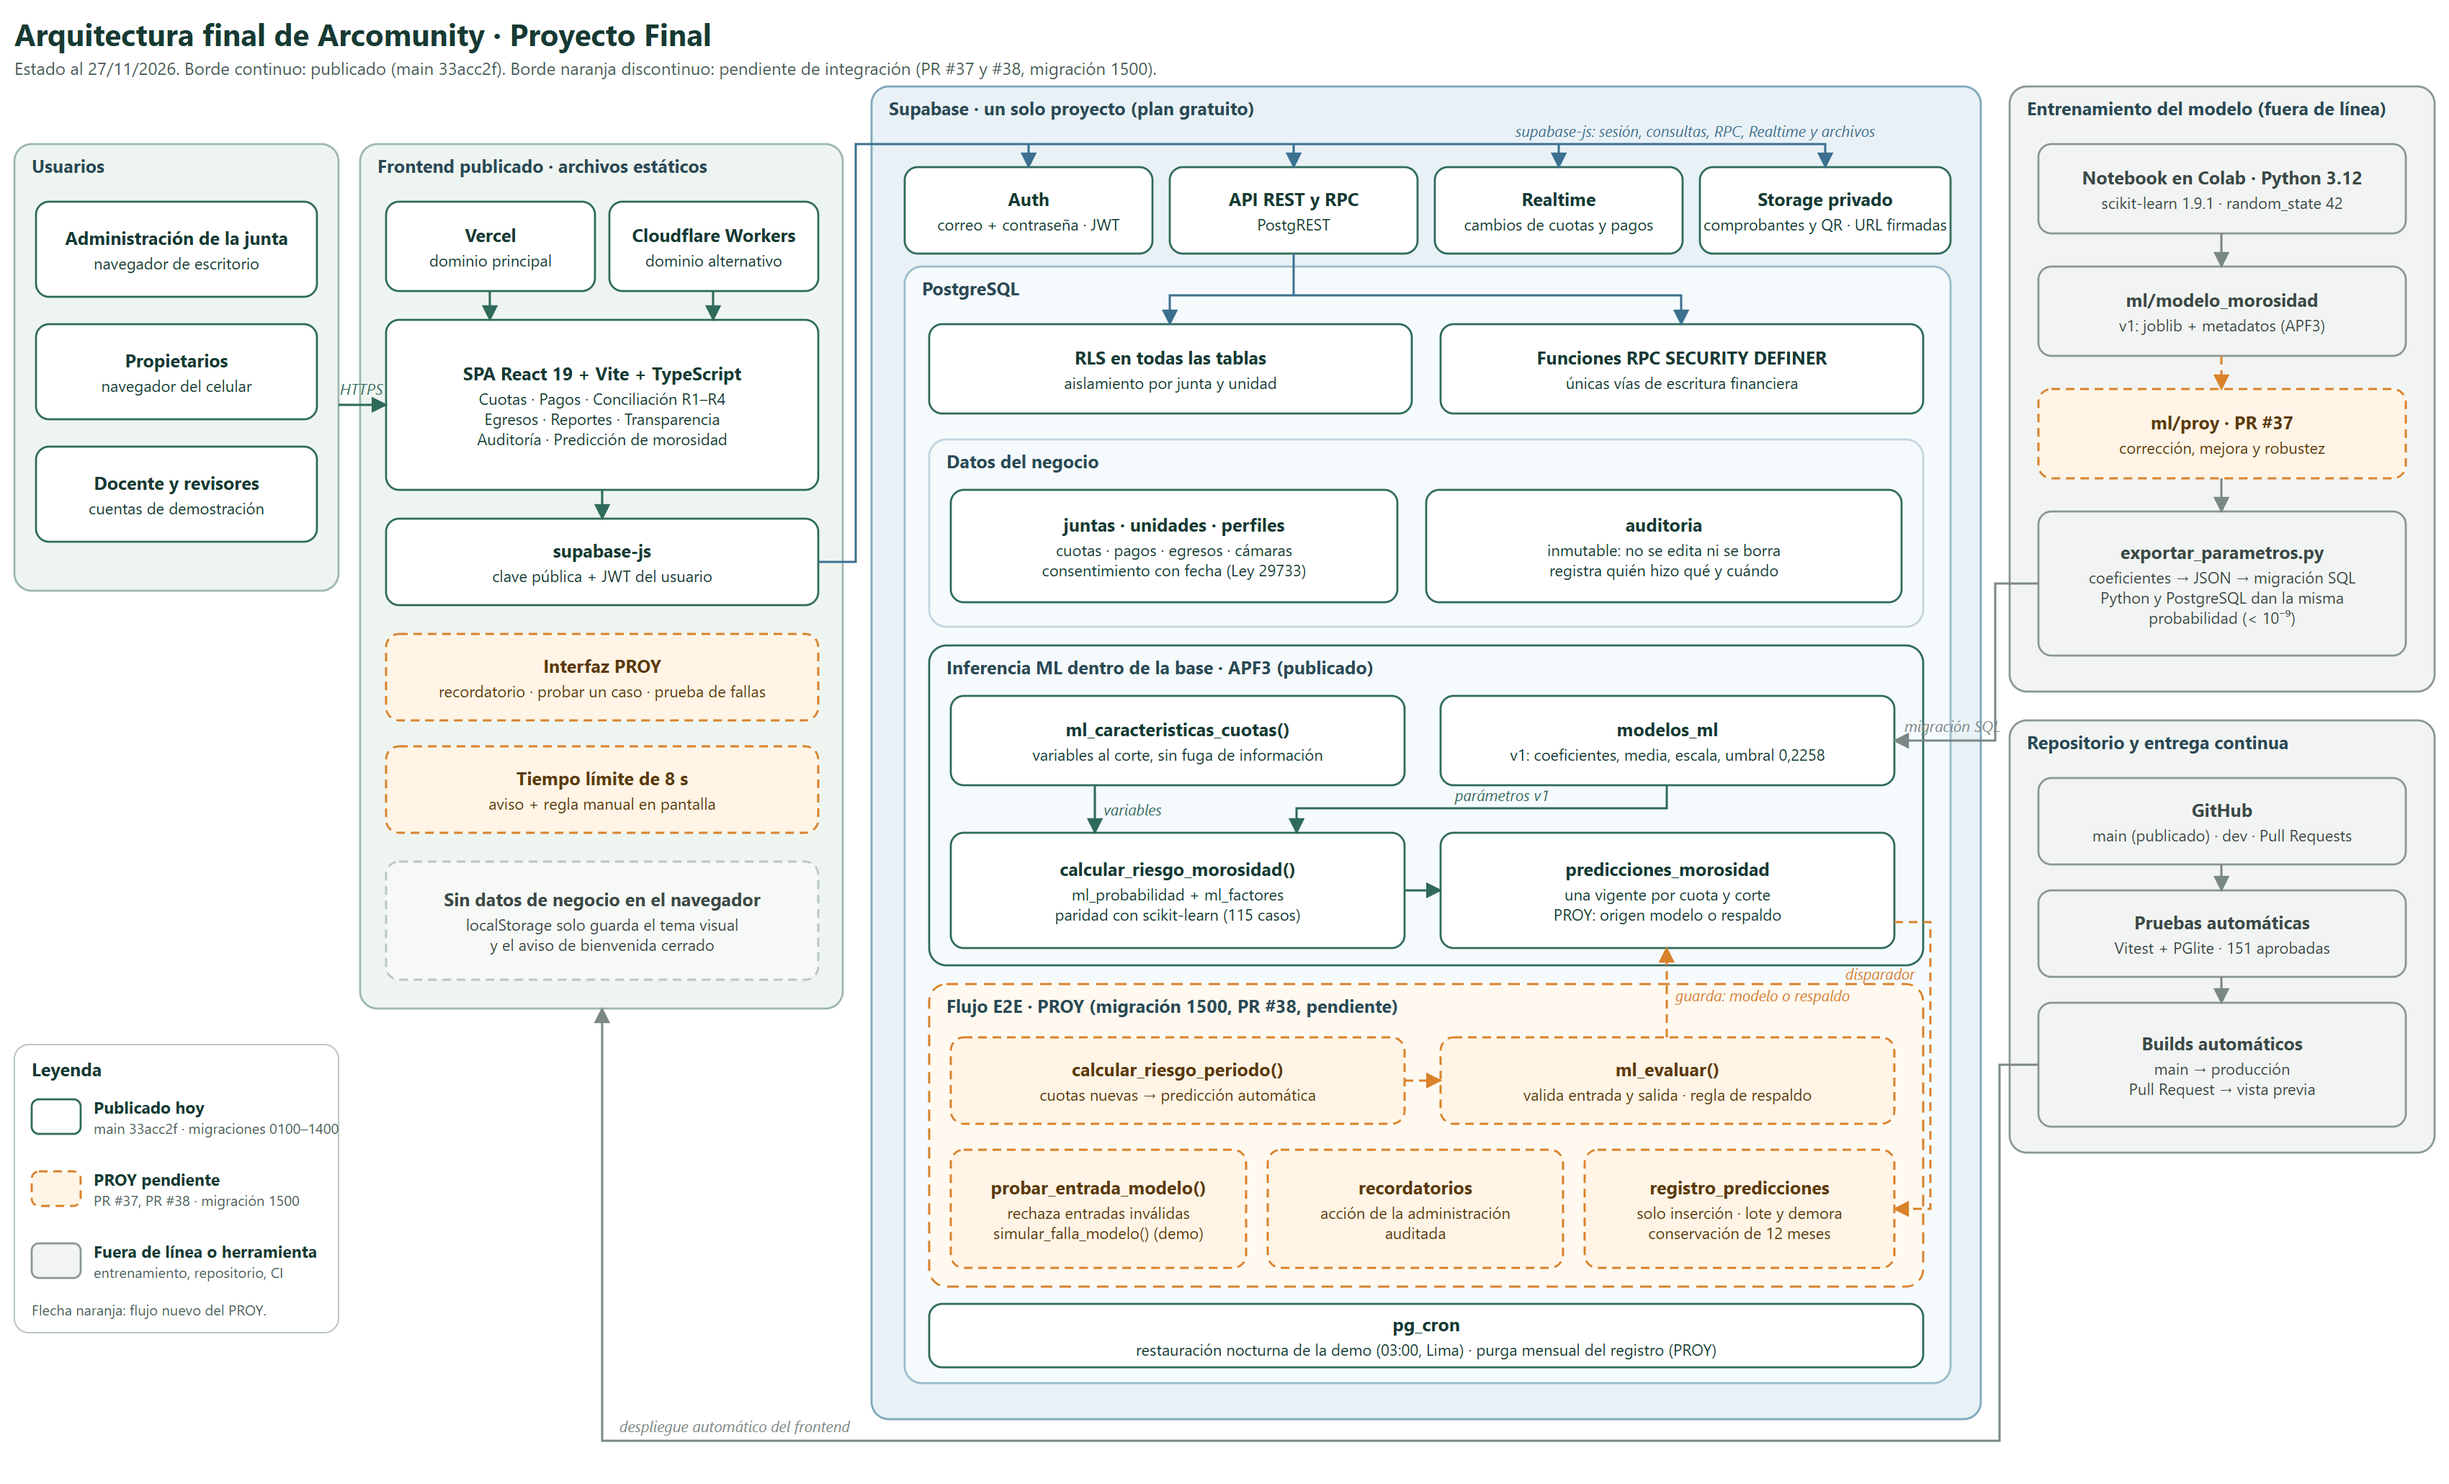
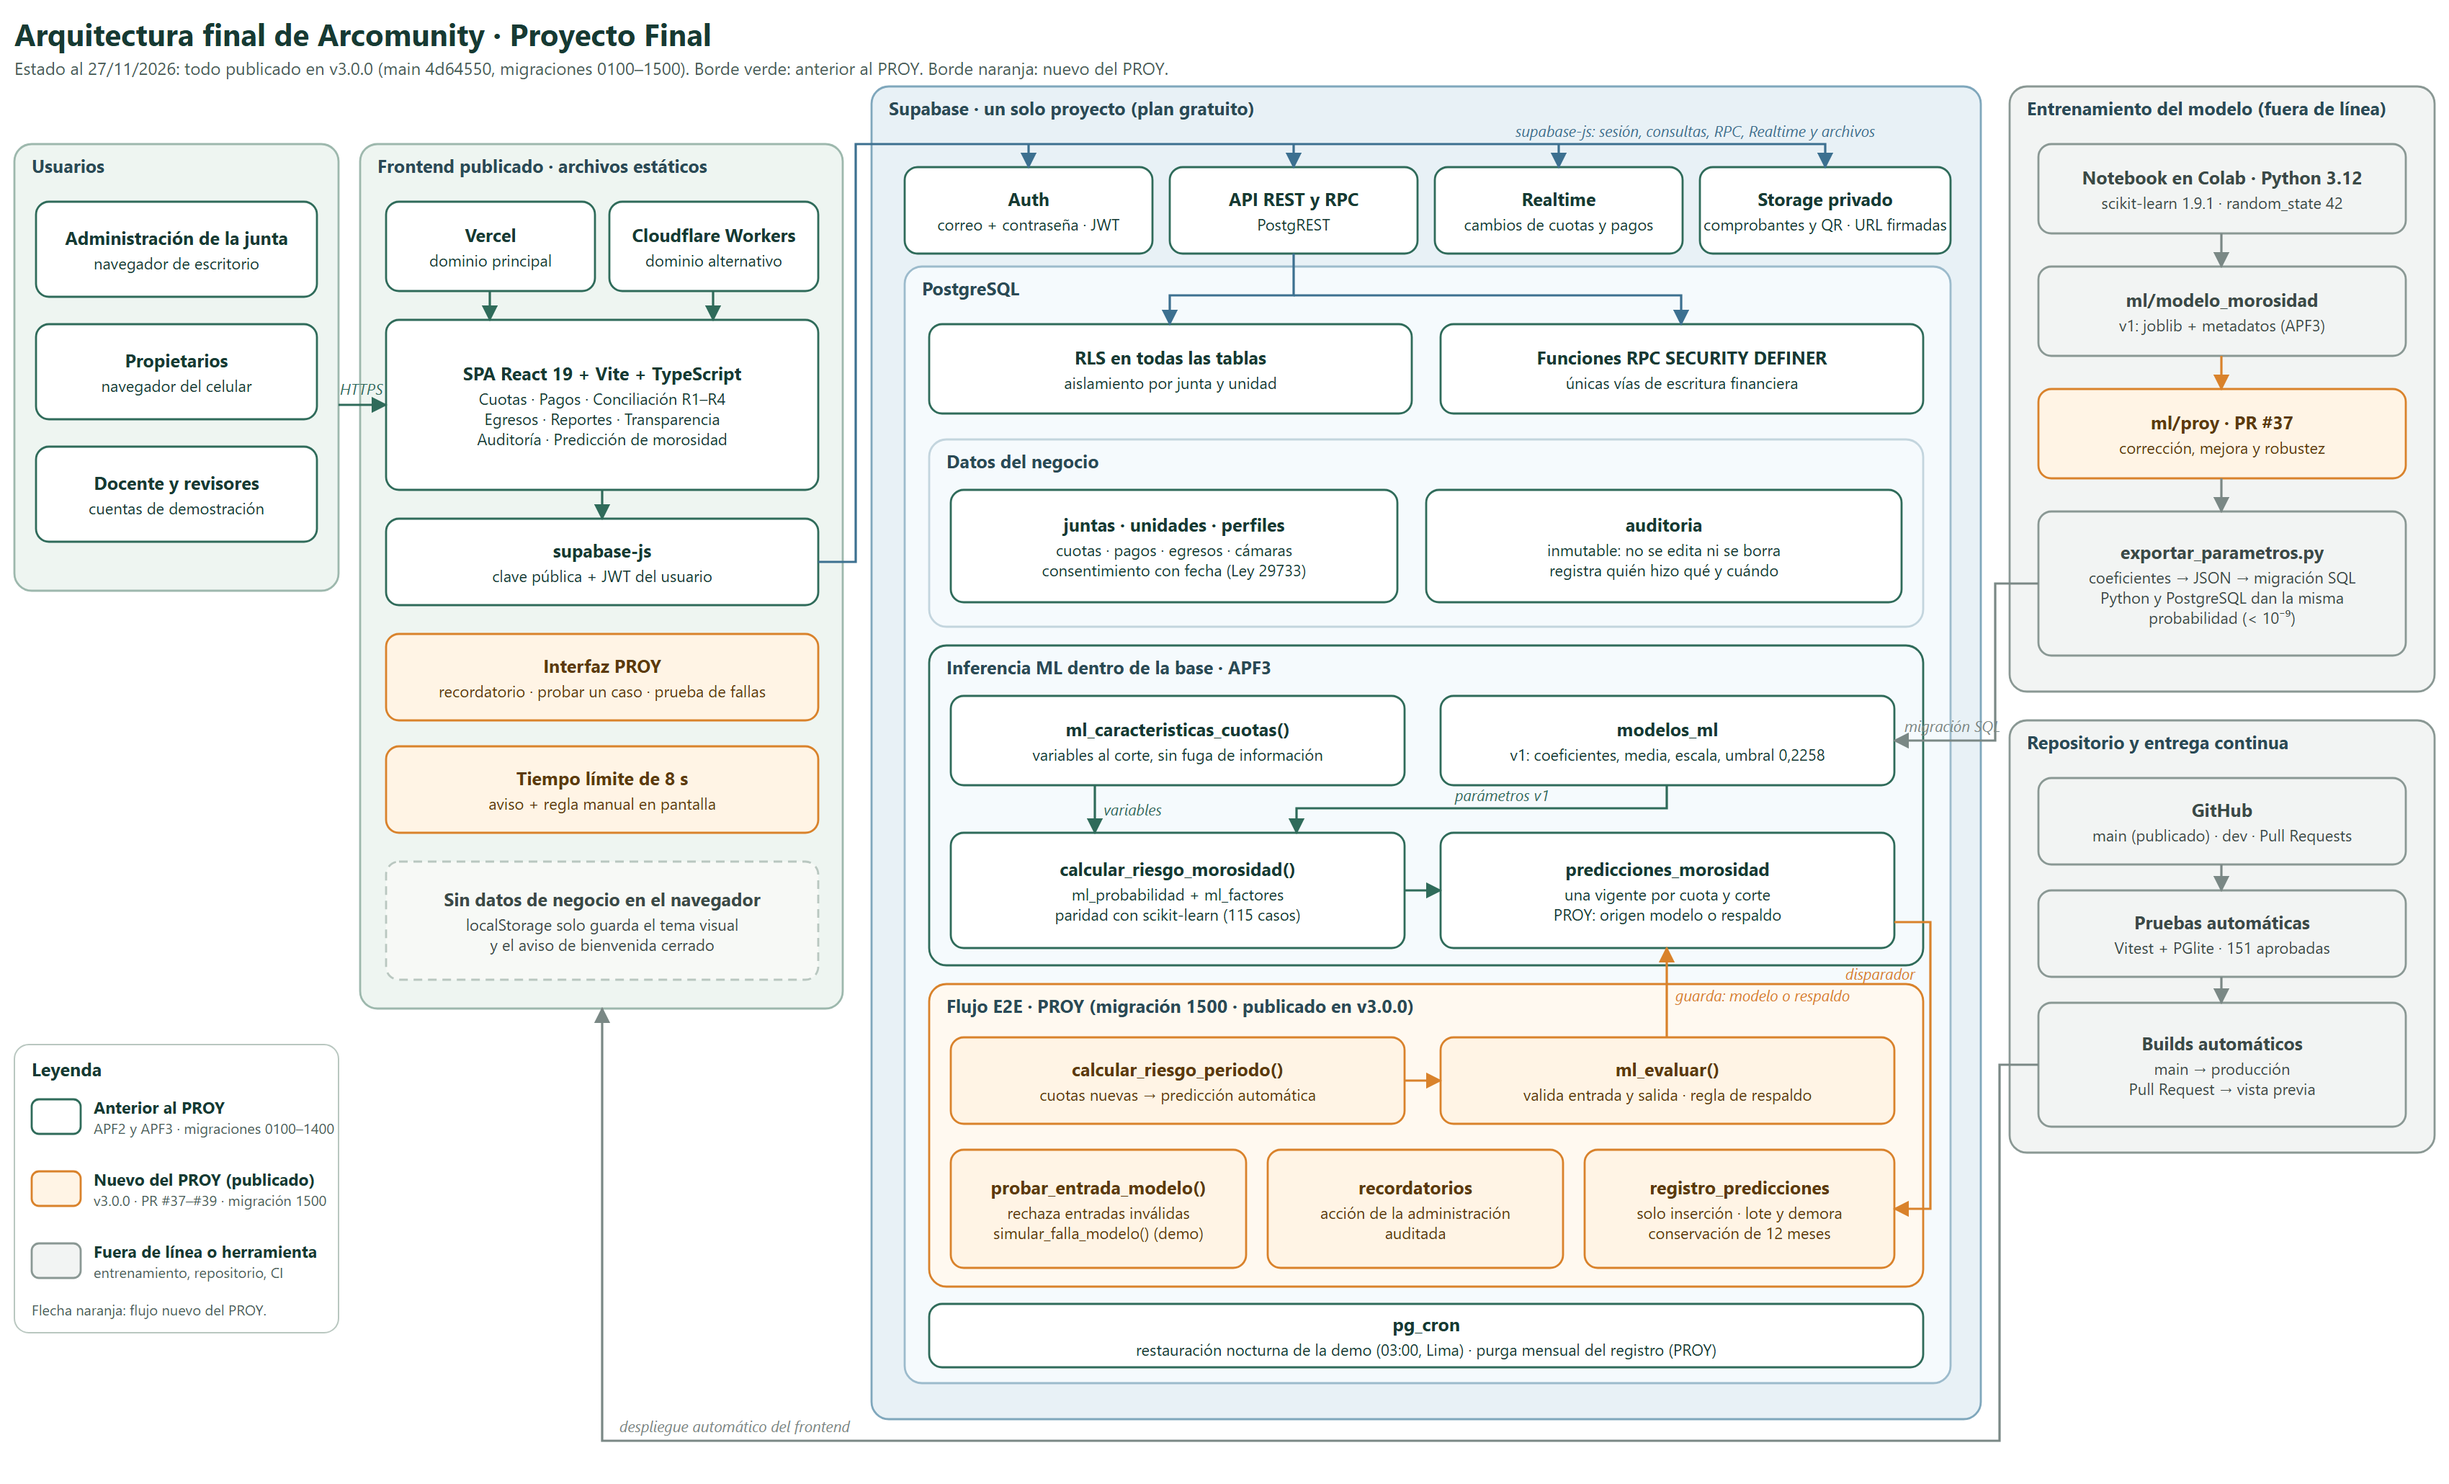
docs: marcar como publicada la arquitectura final del PROY (v3.0.0)

diff --git a/docs/arquitectura-final/generar_diagrama.py b/docs/arquitectura-final/generar_diagrama.py
@@ -5,8 +5,8 @@ Salida: arquitectura_final_proy.svg y arquitectura_final_proy.drawio en esta car
 del SVG (ver README de la carpeta). Una sola especificación alimenta los dos formatos, así no se desalinean.
 
 Convención visual:
-  - borde continuo = publicado hoy (main 33acc2f, migraciones 0100–1400);
-  - borde discontinuo naranja = PROY pendiente de integración (PR #37 y #38, migración 1500);
+  - borde verde = publicado antes del PROY (APF2 y APF3, migraciones 0100–1400);
+  - borde naranja = nuevo del PROY, publicado en v3.0.0 (main 4d64550; PR #37, #38 y #39; migración 1500);
   - gris = fuera de línea o herramientas de desarrollo.
 """
 from __future__ import annotations
@@ -18,7 +18,7 @@ AQUI = Path(__file__).resolve().parent
 ANCHO, ALTO = 1700, 1030
 
 PUB = {"fill": "#FFFFFF", "stroke": "#2F6B5A", "dash": False, "texto": "#173A33"}
-PROY = {"fill": "#FFF4E5", "stroke": "#D9822B", "dash": True, "texto": "#5C3A0E"}
+PROY = {"fill": "#FFF4E5", "stroke": "#D9822B", "dash": False, "texto": "#5C3A0E"}
 OFF = {"fill": "#F2F4F3", "stroke": "#8A9894", "dash": False, "texto": "#3B4A47"}
 NOTA = {"fill": "#F7F9F6", "stroke": "#B9C7C0", "dash": True, "texto": "#3B4A47"}
 
@@ -29,8 +29,8 @@ GRUPOS = [
     ("g_supa", 605, 60, 770, 925, "Supabase · un solo proyecto (plan gratuito)", "#E8F1F6", "#7FA7BC", False),
     ("g_pg", 628, 185, 726, 775, "PostgreSQL", "#F5FAFD", "#9CBBCC", False),
     ("g_neg", 645, 305, 690, 130, "Datos del negocio", "#FFFFFF00", "#C3D5DE", False),
-    ("g_ml", 645, 448, 690, 222, "Inferencia ML dentro de la base · APF3 (publicado)", "#FFFFFF00", "#2F6B5A", False),
-    ("g_proy", 645, 683, 690, 210, "Flujo E2E · PROY (migración 1500, PR #38, pendiente)", "#FFF9F0", "#D9822B", True),
+    ("g_ml", 645, 448, 690, 222, "Inferencia ML dentro de la base · APF3", "#FFFFFF00", "#2F6B5A", False),
+    ("g_proy", 645, 683, 690, 210, "Flujo E2E · PROY (migración 1500 · publicado en v3.0.0)", "#FFF9F0", "#D9822B", False),
     ("g_off", 1395, 60, 295, 420, "Entrenamiento del modelo (fuera de línea)", "#F2F4F3", "#8A9894", False),
     ("g_repo", 1395, 500, 295, 300, "Repositorio y entrega continua", "#F2F4F3", "#8A9894", False),
 ]
@@ -96,11 +96,11 @@ FLECHAS = [
     ([(760, 545), (760, 578)], "variables", (766, 566), False, VERDE),
     ([(1157, 545), (1157, 561), (900, 561), (900, 578)], "parámetros v1", (1010, 556), False, VERDE),
     ([(975, 618), (1000, 618)], "", None, False, VERDE),
-    ([(975, 750), (1000, 750)], "", None, True, NARANJA),
-    ([(1157, 720), (1157, 658)], "guarda: modelo o respaldo", (1163, 695), True, NARANJA),
-    ([(1315, 640), (1340, 640), (1340, 839), (1315, 839)], "disparador", (1281, 680), True, NARANJA),
+    ([(975, 750), (1000, 750)], "", None, False, NARANJA),
+    ([(1157, 720), (1157, 658)], "guarda: modelo o respaldo", (1163, 695), False, NARANJA),
+    ([(1315, 640), (1340, 640), (1340, 839), (1315, 839)], "disparador", (1281, 680), False, NARANJA),
     ([(1542, 162), (1542, 185)], "", None, False, GRIS),
-    ([(1542, 247), (1542, 270)], "", None, True, NARANJA),
+    ([(1542, 247), (1542, 270)], "", None, False, NARANJA),
     ([(1542, 332), (1542, 355)], "", None, False, GRIS),
     ([(1415, 405), (1385, 405), (1385, 514), (1315, 514)], "migración SQL", (1322, 508), False, GRIS),
     ([(1542, 600), (1542, 618)], "", None, False, GRIS),
@@ -131,8 +131,8 @@ def svg() -> str:
                               f'<path d="M0,0 L10,5 L0,10 z" fill="{c}"/></marker>' for c in (VERDE, NARANJA, GRIS, AZUL)) + '</defs>',
            f'<rect width="{ANCHO}" height="{ALTO}" fill="#FFFFFF"/>',
            '<text x="10" y="32" font-size="21" font-weight="700" fill="#173A33">Arquitectura final de Arcomunity · Proyecto Final</text>',
-           '<text x="10" y="52" font-size="12" fill="#4A5D58">Estado al 27/11/2026. Borde continuo: publicado (main 33acc2f). '
-           'Borde naranja discontinuo: pendiente de integración (PR #37 y #38, migración 1500).</text>']
+           '<text x="10" y="52" font-size="12" fill="#4A5D58">Estado al 27/11/2026: todo publicado en v3.0.0 (main 4d64550, '
+           'migraciones 0100–1500). Borde verde: anterior al PROY. Borde naranja: nuevo del PROY.</text>']
     for _, x, y, w, h, t, fondo, borde, dash in GRUPOS:
         d = ' stroke-dasharray="8 5"' if dash else ""
         relleno = "none" if fondo.endswith("00") else fondo
@@ -149,8 +149,8 @@ def svg() -> str:
     x, y, w, h = LEYENDA
     out.append(f'<rect x="{x}" y="{y}" width="{w}" height="{h}" rx="10" fill="#FFFFFF" stroke="#B9C7C0"/>')
     out.append(f'<text x="{x + 12}" y="{y + 22}" font-size="12.5" font-weight="700" fill="#173A33">Leyenda</text>')
-    items = [(PUB, "Publicado hoy", "main 33acc2f · migraciones 0100–1400"),
-             (PROY, "PROY pendiente", "PR #37, PR #38 · migración 1500"),
+    items = [(PUB, "Anterior al PROY", "APF2 y APF3 · migraciones 0100–1400"),
+             (PROY, "Nuevo del PROY (publicado)", "v3.0.0 · PR #37–#39 · migración 1500"),
              (OFF, "Fuera de línea o herramienta", "entrenamiento, repositorio, CI")]
     for i, (e, a, b) in enumerate(items):
         yy = y + 38 + i * 50
@@ -188,13 +188,13 @@ def drawio() -> str:
                       f'strokeColor={color};fontColor={color};fontSize=10;fontStyle=2;dashed={int(dash)};" edge="1" parent="1">'
                       f'<mxGeometry relative="1" as="geometry"><mxPoint x="{x0}" y="{y0}" as="sourcePoint"/>'
                       f'<mxPoint x="{x1}" y="{y1}" as="targetPoint"/><Array as="points">{wps}</Array></mxGeometry></mxCell>')
-    titulo = escape("<b>Arquitectura final de Arcomunity · Proyecto Final</b><br>Estado al 27/11/2026. Borde continuo: publicado "
-                    "(main 33acc2f). Borde naranja discontinuo: pendiente (PR #37 y #38, migración 1500).")
+    titulo = escape("<b>Arquitectura final de Arcomunity · Proyecto Final</b><br>Estado al 27/11/2026: todo publicado en v3.0.0 "
+                    "(main 4d64550, migraciones 0100–1500). Borde verde: anterior al PROY. Borde naranja: nuevo del PROY.")
     celdas.append(f'<mxCell id="{nid()}" value="{titulo}" style="text;html=1;align=left;verticalAlign=top;fontSize=13;" vertex="1" parent="1">'
                   '<mxGeometry x="10" y="10" width="1200" height="46" as="geometry"/></mxCell>')
     x, y, w, h = LEYENDA
-    ley = escape("<b>Leyenda</b><br>Borde verde continuo: publicado (main 33acc2f, migraciones 0100–1400)<br>"
-                 "Borde naranja discontinuo: PROY pendiente (PR #37, PR #38, migración 1500)<br>Gris: fuera de línea o herramienta")
+    ley = escape("<b>Leyenda</b><br>Borde verde: anterior al PROY (APF2 y APF3, migraciones 0100–1400)<br>"
+                 "Borde naranja: nuevo del PROY, publicado en v3.0.0 (PR #37–#39, migración 1500)<br>Gris: fuera de línea o herramienta")
     celdas.append(f'<mxCell id="{nid()}" value="{ley}" style="rounded=1;whiteSpace=wrap;html=1;align=left;verticalAlign=top;spacing=10;'
                   f'fillColor=#FFFFFF;strokeColor=#B9C7C0;fontSize=11;" vertex="1" parent="1"><mxGeometry x="{x}" y="{y}" width="{w}" height="{h}" as="geometry"/></mxCell>')
     return ('<mxfile host="app.diagrams.net"><diagram name="Arquitectura final PROY" id="arquitectura-final-proy">'

diff --git a/docs/arquitectura-final/README.md b/docs/arquitectura-final/README.md
@@ -14,9 +14,11 @@
 
 **Convención:**
 
-- **Borde continuo:** lo publicado hoy (`main` en `33acc2f`, migraciones 0100–1400).
-- **Borde naranja discontinuo:** lo pendiente del PROY (PR #37, PR #38 y migración 1500).
+Estado al 27/11/2026: todo el diagrama está publicado en la versión `v3.0.0` (`main` en `4d64550`, migraciones
+0100–1500 aplicadas en Supabase).
+
+- **Borde verde:** lo que ya existía antes del PROY (APF2 y APF3, migraciones 0100–1400).
+- **Borde naranja:** lo nuevo del PROY, publicado en `v3.0.0` (PR #37, #38 y #39, migración 1500).
 - **Gris:** el entrenamiento fuera de línea y las herramientas.
 
-Cuando se integren los PR y se aplique la migración 1500, se cambia el estilo de esas cajas a «publicado» en `CAJAS` y
-se regenera.
+Hasta el 27/11/2026, antes de publicar, lo nuevo del PROY se dibujaba con borde naranja discontinuo («pendiente»).
